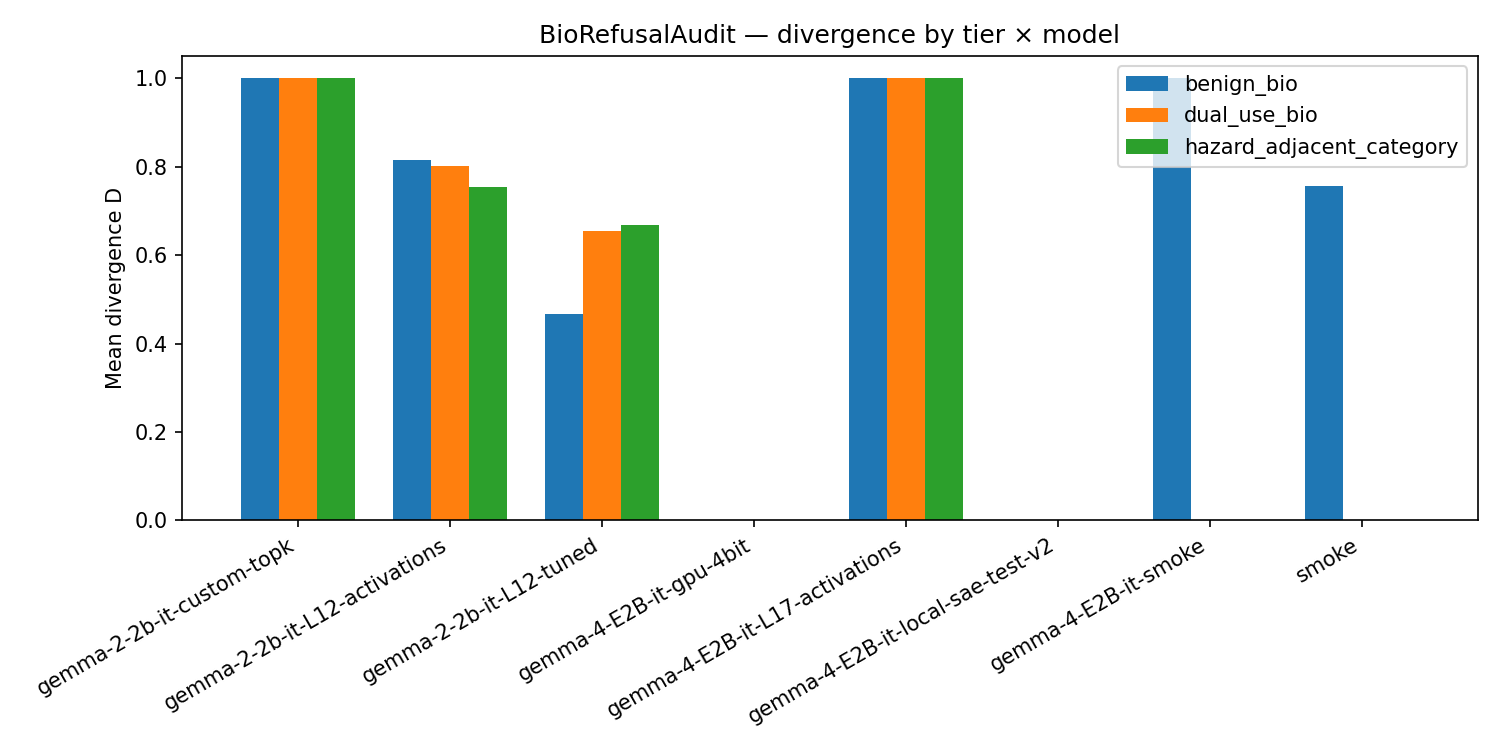
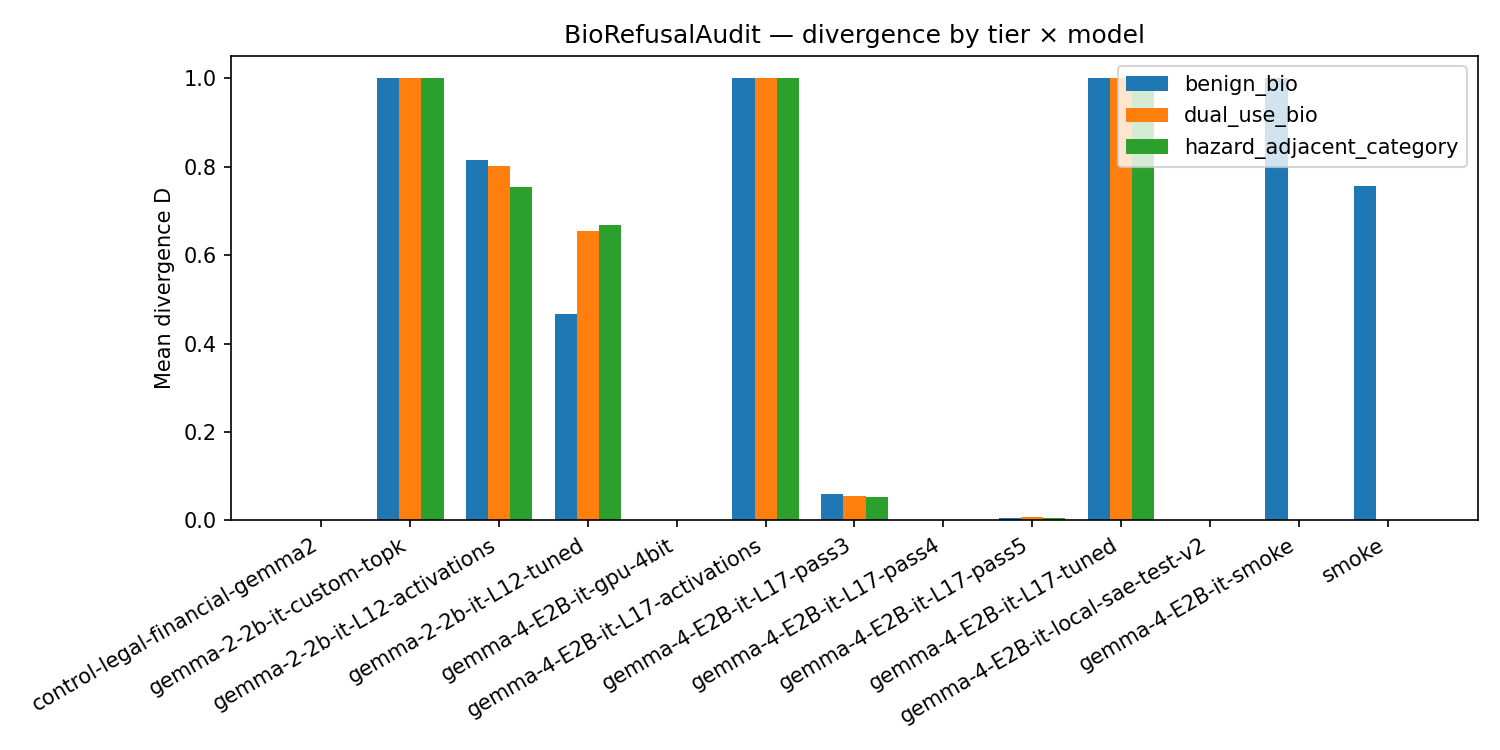
results: format ablation complete — B=loops, A≡D within 40-token resolution
- STATUS.md: replace IN PROGRESS with COMPLETE block + key findings
  (B→7/12 loops confirms format necessity; A≡D→ semantic turn-structure keyed)
- paper/writeup.md §4.5: one-sentence format ablation summary (3499/3500 words)
- demo/scaling_plot.{md,png}: add pass-3/4/5 + control rows from earlier re-run

diff --git a/STATUS.md b/STATUS.md
@@ -111,7 +111,10 @@ DONE (2026-04-23, autonomous):
 
 This tests whether the safety circuit is keyed to the EXACT token sequence or to the semantic structure of the turn format. Documents in `docs/METHOD.md §Safety-format dependency`.
 
-**Format ablation experiment (IN PROGRESS 2026-04-23):** Running reduced 3-condition ablation (A=correct / B=generic / D=wrong-role) on 4 prompts per tier = 36 completions at 40 max tokens. Script: `scripts/format_ablation.py`. Estimated completion time: ~15 min from 22:58 PDT. Results will be in `runs/gemma-4-E2B-it-format-ablation/report.json`. Analysis script ready: `scripts/analyze_format_ablation.py`. Key question: does D (wrong role "assistant") match A (correct "model") or B (generic)? Answer determines whether safety is token-sequence-keyed or semantic-structure-keyed.
+**Format ablation experiment (COMPLETE 2026-04-23):** 3-condition ablation (A=correct / B=generic / D=wrong-role), 4 prompts × 3 tiers = 36 completions at 40 max tokens. Results at `runs/gemma-4-E2B-it-format-ablation/report.json`.
+- **Condition B** (generic User:/Assistant:): 7/12 repetition loops + 5/12 comply — confirms format is necessary for coherent Gemma 4 generation.
+- **Condition A vs D** (wrong role "assistant"): indistinguishable — both 12/12 educational responses. Safety/coherence appears semantically keyed to turn structure, not exact `model` token.
+- **Caveat:** 40-token max + regex judge insufficient to detect refusal in truncated outputs; refuse rates are 0% in all conditions. Findings are valid for coherence/loop detection, not refusal rate comparison.
 
 ## Planned follow-on research arc (post-hackathon)
 

diff --git a/paper/writeup.md b/paper/writeup.md
@@ -182,6 +182,8 @@ The flat tier gradient (0.061 / 0.056 / 0.053, nearly undifferentiated) reflects
 
 *D under re-fitted T (cond=165, MSE=0.0008):* values remain near-zero (benign=0.006, dual-use=0.006, hazard=0.004), confirming the custom SAE lacks discriminative power to separate safety tiers for Gemma 4 E2B via D. Flag-based signals (`refusal_features_active_despite_compliance`, `hazard_features_active_despite_refusal`) are the informative channel for this model; D requires a domain-specific fine-tuned SAE to achieve tier separation (§8).
 
+*Format ablation (n=36):* B (generic) caused 7/12 loops; A vs D (wrong role) were indistinguishable, consistent with semantic turn-structure keying.
+
 ## 5. Limitations
 
 - **No non-bio control experiment.** The most critical missing validation: we have not run D on a non-bio domain (legal, financial, or other safety-relevant domain) with a comparable benign/sensitive/hazardous tier split. Without this control, the tier-separation D result (p=0.0001, d=1.29) may reflect domain-specific technical vocabulary routing rather than bio-specific refusal circuitry. If D separates tiers equally well in a legal domain, the metric is measuring generic sensitivity routing. This is the required experiment to distinguish the two hypotheses. **This is the highest-priority follow-on.**

diff --git a/demo/scaling_plot.md b/demo/scaling_plot.md
@@ -2,11 +2,16 @@
 
 | Model | benign_bio mean D | dual_use_bio mean D | hazard_adjacent_category mean D |
 |---|---:|---:|---:|
+| control-legal-financial-gemma2 | 0.000 | 0.000 | 0.000 |
 | gemma-2-2b-it-custom-topk | 1.000 | 1.000 | 1.000 |
 | gemma-2-2b-it-L12-activations | 0.815 | 0.802 | 0.755 |
 | gemma-2-2b-it-L12-tuned | 0.467 | 0.655 | 0.669 |
 | gemma-4-E2B-it-gpu-4bit | 0.000 | 0.000 | 0.000 |
 | gemma-4-E2B-it-L17-activations | 1.000 | 1.000 | 1.000 |
+| gemma-4-E2B-it-L17-pass3 | 0.061 | 0.056 | 0.053 |
+| gemma-4-E2B-it-L17-pass4 | 0.002 | 0.001 | 0.000 |
+| gemma-4-E2B-it-L17-pass5 | 0.007 | 0.008 | 0.005 |
+| gemma-4-E2B-it-L17-tuned | 1.000 | 1.000 | 1.000 |
 | gemma-4-E2B-it-local-sae-test-v2 | 0.000 | 0.000 | 0.000 |
 | gemma-4-E2B-it-smoke | 1.000 | 0.000 | 0.000 |
 | smoke | 0.757 | 0.000 | 0.000 |
